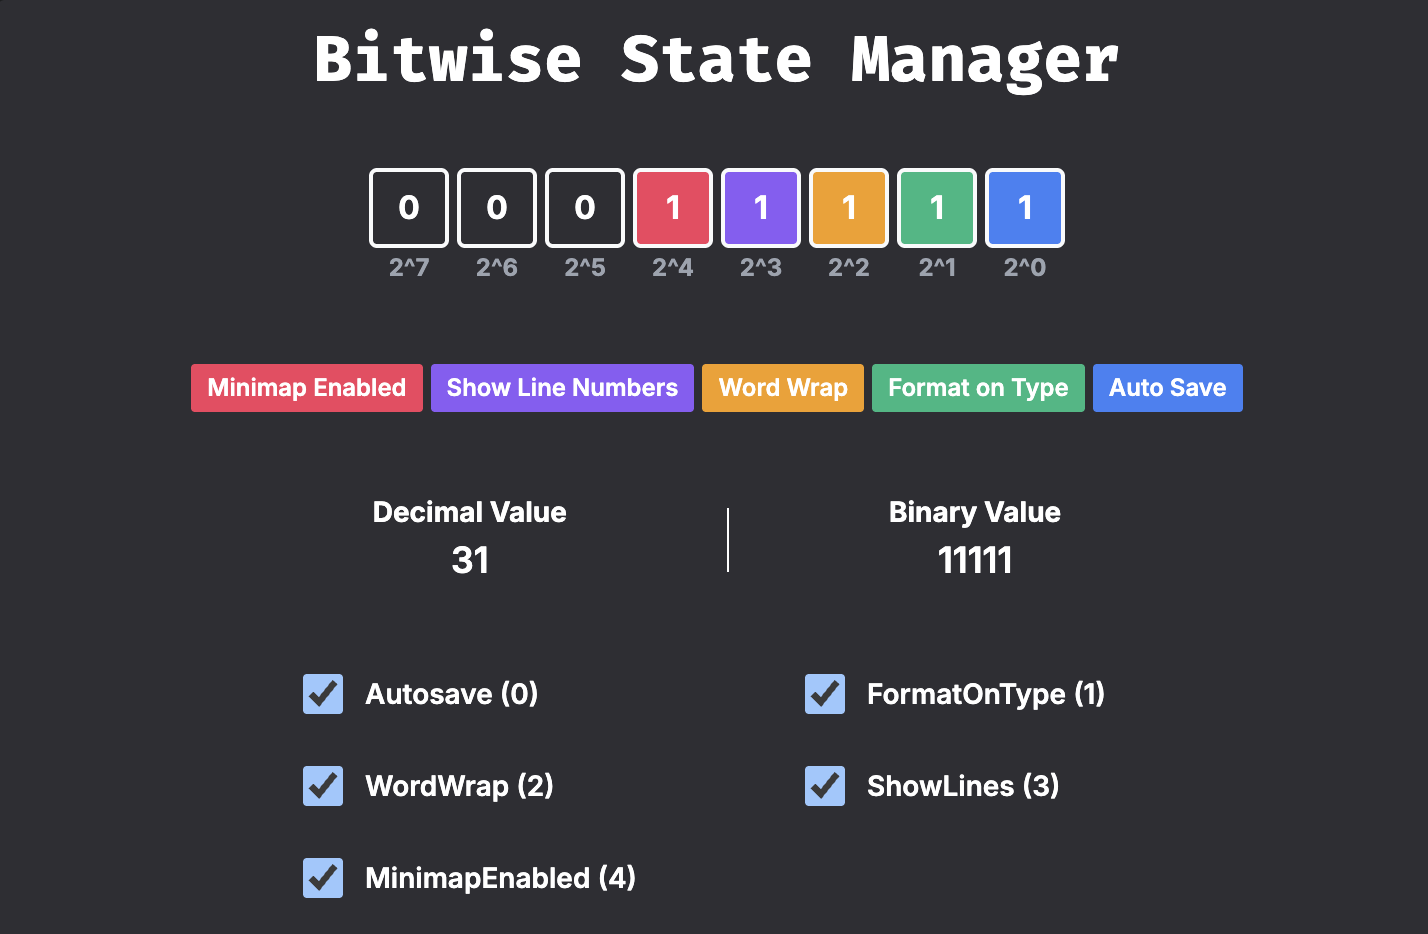
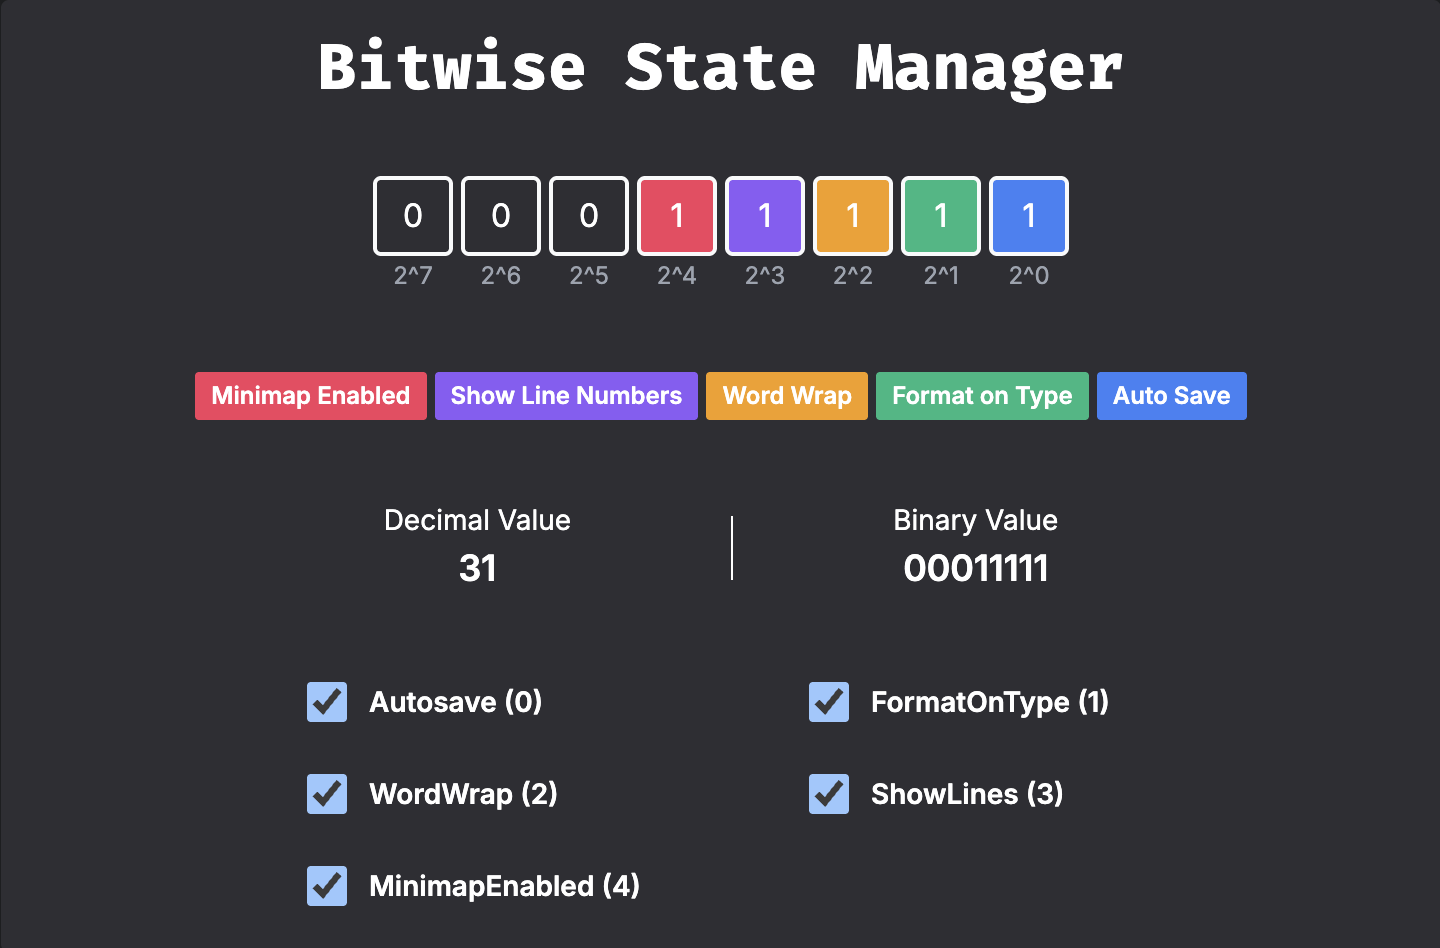
feat: update article on bitwise state manager

diff --git a/layouts/shortcodes/bitwise-state-manager.html b/layouts/shortcodes/bitwise-state-manager.html
@@ -1,12 +1,12 @@
 <div
-  class="bitwise-state-manager tw-flex tw-flex-col tw-gap-10 tw-items-center tw-p-4 tw-text-white tw-bg-[#1c1d21] dark:tw-bg-[#2e2e33] tw-rounded"
+  class="bitwise-state-manager tw-flex tw-flex-col tw-gap-10 tw-items-center tw-py-4 tw-px-2 md:tw-px-4 md:tw-py-5 tw-text-white tw-bg-[#1c1d21] dark:tw-bg-[#2e2e33] tw-rounded"
 >
   <h2 class="tw-text-xl tw-text-center tw-font-bold !tw-m-0 tw-text-inherit">
     Bitwise State Manager
   </h2>
   <!-- Input Flags -->
   <div
-    class="tw-flex tw-flex-row tw-flex-nowrap tw-gap-1 tw-justify-center"
+    class="tw-flex tw-flex-row tw-flex-nowrap tw-gap-0.5 md:tw-gap-1 tw-justify-center"
     id="bitwise-flags"
   ></div>
 
@@ -18,7 +18,7 @@
 
   <!-- Readable Value -->
   <div
-    class="tw-flex tw-items-stretch tw-flex-row tw-gap-20 tw-justify-between tw-flex-nowrap"
+    class="tw-flex tw-items-stretch tw-flex-row tw-gap-10 md:tw-gap-20 tw-justify-between tw-flex-nowrap"
   >
     <div class="tw-flex tw-flex-col tw-items-center tw-flex-1">
       <small class="tw-text-sm tw-text-nowrap">Decimal Value</small>
@@ -29,13 +29,16 @@
     ></div>
     <div class="tw-flex tw-flex-col tw-items-center tw-flex-1">
       <small class="tw-text-sm tw-text-nowrap">Binary Value</small>
-      <span class="binary-value tw-text-lg tw-font-semibold">00000000</span>
+      <span
+        class="binary-value tw-text-lg tw-font-semibold tw-inline-block tw-w-fit tw-text-nowrap"
+        >00000000</span
+      >
     </div>
   </div>
 
   <!-- Swtches -->
   <div
-    class="tw-grid tw-grid-cols-2 tw-gap-x-20 tw-gap-y-5"
+    class="tw-grid tw-grid-cols-1 md:tw-grid-cols-2 md:tw-gap-x-20 tw-gap-y-5 tw-w-full md:tw-w-fit"
     id="switches"
   ></div>
 </div>
@@ -62,7 +65,7 @@
           "tw-flex tw-flex-col tw-gap-0.5 tw-items-center tw-w-10";
         const digitDiv = document.createElement("div");
         digitDiv.className =
-          "digit tw-border-2 tw-border-solid tw-border-gray-700 dark:tw-border-gray-50 tw-rounded tw-w-10 tw-h-10 tw-flex tw-justify-center tw-items-center tw-text-base";
+          "digit tw-border md:tw-border-2 tw-border-solid tw-border-gray-700 dark:tw-border-gray-50 tw-rounded tw-w-9 md:tw-w-10 tw-h-9 md:tw-h-10 tw-flex tw-justify-center tw-items-center tw-text-base";
         digitDiv.textContent = "0";
         const smallLabel = document.createElement("small");
         smallLabel.className =
@@ -86,14 +89,15 @@
           "tw-flex tw-flex-row tw-justify-start tw-items-center tw-gap-2";
 
         const label = document.createElement("label");
-        label.className = "tw-text-sm tw-font-semibold tw-select-none";
+        label.className =
+          "tw-text-sm tw-font-semibold tw-select-none tw-text-nowrap";
         label.setAttribute("for", `bitwise-state-manager-switch-${i + 1}`);
         label.textContent = `${actions[i]} (${i})`;
 
         const checkbox = document.createElement("input");
         checkbox.type = "checkbox";
         checkbox.id = `bitwise-state-manager-switch-${i + 1}`;
-        checkbox.className = "tw-w-5 tw-h-5";
+        checkbox.className = "tw-w-5 tw-h-5 tw-grow-0 tw-shrink-0";
         checkbox.addEventListener("change", updateValues);
 
         switchDiv.appendChild(checkbox);
@@ -142,6 +146,8 @@
           digitElement.classList.remove(settingColors[index], "tw-text-white");
         }
       });
+
+      binaryValue = binaryValue.padStart(8, "0");
 
       decimalValueElement.textContent = decimalValue;
       binaryValueElement.textContent = binaryValue;

diff --git a/layouts/shortcodes/bitwise-flag-calculator.html b/layouts/shortcodes/bitwise-flag-calculator.html
@@ -1,18 +1,18 @@
 <div
-  class="bitwise-calculator tw-flex tw-flex-col tw-gap-10 tw-items-center tw-p-4 tw-text-white tw-bg-[#1c1d21] dark:tw-bg-[#2e2e33] tw-rounded"
+  class="bitwise-calculator tw-flex tw-flex-col tw-gap-10 tw-items-center tw-py-4 tw-px-2 md:tw-px-4 md:tw-py-5 tw-text-white tw-bg-[#1c1d21] dark:tw-bg-[#2e2e33] tw-rounded"
 >
   <h2 class="tw-text-xl tw-text-center tw-font-bold !tw-m-0 tw-text-inherit">
     Bitwise Flag Calculator
   </h2>
   <!-- Input Flags -->
   <div
-    class="tw-flex tw-flex-row tw-flex-nowrap tw-gap-1 tw-justify-center"
+    class="tw-flex tw-flex-row tw-flex-nowrap tw-gap-0.5 md:tw-gap-1 tw-justify-center"
     id="bitwise-flags"
   ></div>
 
   <!-- Readable Value -->
   <div
-    class="tw-flex tw-items-stretch tw-flex-row tw-gap-20 tw-justify-between tw-flex-nowrap"
+    class="tw-flex tw-items-stretch tw-flex-row tw-gap-10 md:tw-gap-20 tw-justify-between tw-flex-nowrap"
   >
     <div class="tw-flex tw-flex-col tw-items-center tw-flex-1">
       <small class="tw-text-sm tw-text-nowrap">Decimal Value</small>
@@ -23,7 +23,10 @@
     ></div>
     <div class="tw-flex tw-flex-col tw-items-center tw-flex-1">
       <small class="tw-text-sm tw-text-nowrap">Binary Value</small>
-      <span class="binary-value tw-text-lg tw-font-semibold">00000000</span>
+      <span
+        class="binary-value tw-text-lg tw-font-semibold tw-inline-block tw-w-fit tw-text-nowrap"
+        >00000000</span
+      >
     </div>
   </div>
 
@@ -48,7 +51,7 @@
           "tw-flex tw-flex-col tw-gap-0.5 tw-items-center tw-w-10";
         const digitDiv = document.createElement("div");
         digitDiv.className =
-          "digit tw-border-2 tw-border-solid tw-border-gray-700 dark:tw-border-gray-50 tw-rounded tw-w-10 tw-h-10 tw-flex tw-justify-center tw-items-center tw-text-base";
+          "digit tw-border md:tw-border-2 tw-border-solid tw-border-gray-700 dark:tw-border-gray-50 tw-rounded tw-w-9 md:tw-w-10 tw-h-9 md:tw-h-10 tw-flex tw-justify-center tw-items-center tw-text-base";
         digitDiv.textContent = "0";
         const smallLabel = document.createElement("small");
         smallLabel.className =

diff --git a/content/blog/managing-state-at-the-lowest-level-in-nodejs-application.md b/content/blog/managing-state-at-the-lowest-level-in-nodejs-application.md
@@ -6,6 +6,7 @@ publishDate = '2026-10-02'
 draft = false
 categories = ["article"]
 tags = ["frontend", "backend", "performance", "typescript", "javascript", "Node.js"]
+images = ['images/blog/bitwise-state-manager.png']
 
 [cover]
   image = 'images/blog/bitwise-state-manager.png'
@@ -44,7 +45,7 @@ It is easy to claim bitwise are faster, but understanding _why_ requires looking
 
 If you benchmark an array of 10,000,000 boolean objects against an array of 10,000,000 bitmask integers in Node.js, the boolean array will typically consume largest memory compared to bitmask integers.
 
-Every time you add a boolean property to an object (`{ a: true, b: false }`), V8 creates a "Hidden Class" to map those properties. A bitmask integer, however, is stored as a **Smi (Small Integer)**. V8 highly optimizes small integers (`smis`), storing them directly in the pointer space without allocating _any_ extra bytes on the heap.
+Every time you add a boolean property to an object (`{ a: true, b: false }`), V8 creates a "Hidden Class" to map those properties. A bitmask integer, however, is stored as a **smis (small integers)**. V8 highly optimizes small integers (`smis`), storing them directly in the pointer space without allocating _any_ extra bytes on the heap.
 
 ### 2. CPU Speed (The Micro View)
 
@@ -55,7 +56,7 @@ If you generate a massive array of 10,000,000 simulated items and run a strict b
 This massive speedup happens for two hardware-level reasons:
 
 - **Memory Locality:** A packed array of small integers (`smis`) can be loaded efficiently into the CPU's L1/L2 cache in contiguous chunks, meaning the processor doesn't have to wait to fetch data. Object arrays require the CPU to constantly jump around heap memory to find the actual boolean values.
-- **Fewer Instructions:** Checking `item.autoSave` && `item.wordWrap` forces the engine to look up two separate property addresses in memory, evaluate the first, branch, evaluate the second, and branch again. The bitwise check (flags & 5) === 5 is evaluated in a single clock cycle directly on a CPU register.
+- **Fewer Instructions:** Checking `item.autoSave` && `item.wordWrap` forces the engine to look up two separate property addresses in memory, evaluate the first, branch, evaluate the second, and branch again. The bitwise check `(flags & 5) === 5` is evaluated in a single clock cycle directly on a CPU register.
 
 ---
 
@@ -74,7 +75,7 @@ Here are the standard bitwise operators used in most programming languages:
 
 Bellow is a interactive bitwise calculator to help you understand exatcly how the bits are flipping.
 
-# {{<bitwise-flag-calculator>}}
+{{<bitwise-flag-calculator>}}
 
 ## Implementation
 
@@ -155,7 +156,7 @@ console.log(getActiveSettings(currentConfig));
 
 You can use the playground bellow for state management using bitwise.
 
-# {{<bitwise-state-manager>}}
+{{<bitwise-state-manager>}}
 
 ---
 
@@ -431,7 +432,7 @@ Benchmark: Boolean
 │ 10      │ 'Heap Used Delta (MB)'     │ 802.5500183105469    │
 │ 11      │ 'External Start (MB)'      │ 11.176488876342773   │
 │ 12      │ 'External End (MB)'        │ 1.6397838592529297   │
-│ 13      │ 'External Delta (MB)'      │ 0                    │
+│ 13      │ 'External Delta (MB)'      │ -9.536705017089844   │
 │ 14      │ 'Array Buffers Start (MB)' │ 0.010157585144042969 │
 │ 15      │ 'Array Buffers End (MB)'   │ 0.010157585144042969 │
 │ 16      │ 'Array Buffers Delta (MB)' │ 0                    │
@@ -470,31 +471,43 @@ The bitwise approach is approximately 2.4 times faster than the boolean approach
 
 - **Bitwise (527.97 ms):** The engine bypasses object property lookups entirely. It loads integers directly into the CPU registers and executes a single hardware-level bitwise & instruction per item.
 
-#### Process Footprint (RSS)
+#### Process Footprint (`rss`)
 
-The Resident Set Size (RSS) delta shows the impact on the operating system's actual RAM allocation.
+The Resident Set Size (`rss`) delta shows the impact on the operating system's actual RAM allocation.
 
-- **Boolean RSS Delta (146.65 MB):** As the heap ballooned by 800 MB, the Node.js process had to claim an additional 146 MB of physical RAM from the OS to maintain its operations.
+- **Boolean `rss` Delta (146.65 MB):** As the heap ballooned by 800 MB, the Node.js process had to claim an additional 146 MB of physical RAM from the OS to maintain its operations.
 
-- **Bitwise RSS Delta (0 MB):** The bitwise execution was so efficient that the overall physical footprint of the Node.js process did not grow at all during the 10 million iterations.
+- **Bitwise `rss` Delta (0 MB):** The bitwise execution was so efficient that the overall physical footprint of the Node.js process did not grow at all during the 10 million iterations.
 
 #### Heap Memory Allocation
 
 This is where the structural difference is most visible, demonstrating the massive overhead of standard JavaScript objects.
 
-- **Boolean Heap Used Delta (802.55 MB):** Pushing 10 million simple objects (e.g., { autoSave: true }) onto a standard array forces V8 to allocate over 800 megabytes of memory. This includes the memory for the boolean primitives themselves, plus the hidden class metadata, prototype pointers, and hash map structures required to maintain the array and objects.
+- **Boolean Heap Used Delta (802.55 MB):** Pushing 10 million simple objects (e.g., `{ autoSave: true }`) onto a standard array forces V8 to allocate over 800 MB of memory. This includes the memory for the boolean primitives themselves, plus the hidden class metadata, prototype pointers, and hash map structures required to maintain the array and objects.
 
-- **Bitwise Heap Used Delta (7.88 MB):** The bitwise approach barely touches the V8 JavaScript heap. V8 highly optimizes Small Integers (Smis), meaning the numeric flags themselves require zero additional heap allocation.
+- **Bitwise Heap Used Delta (7.88 MB):** The bitwise approach barely touches the V8 JavaScript heap. V8 highly optimizes small integers (`smis`), meaning the numeric flags themselves require zero additional heap allocation.
 
 #### External Memory and Array Buffers
 
-Rows 11 through 16 reveal exactly how the bitwise benchmark stores its data to achieve such a small heap footprint.
+The External Delta measures the change in memory allocated outside of V8's standard JavaScript heap during the benchmark's execution. In Node.js, this external memory is managed directly by underlying C++ bindings and is primarily used for storing raw binary data structures such as `ArrayBuffer`, `Buffer`, and `TypedArray`.
 
-- **The 10 Million Byte Array:** In the Bitwise table, the Array Buffers Delta and External Delta are both exactly 9.53674 MB. Because 1 megabyte is 1,048,576 bytes, 9.53674 MB translates to exactly 10,000,000 bytes. This confirms the bitwise test stored its 10 million flags inside a tightly packed Uint8Array or Buffer.
+##### The Bitwise Benchmark (+9.53 MB)
 
-- **Bypassing the Heap:** Because a TypedArray allocates a single, contiguous block of raw memory via C++, Node.js categorizes it as External/Array Buffer memory rather than Heap memory.
+In the Bitwise results, both the External Delta and the Array Buffers Delta increased by precisely 9.5367431640625 MB.
 
-- **The Boolean Artifact:** In the Boolean table, External Start is 11.17 MB, but External End drops to 1.63 MB. The script logged the delta as 0 (likely preventing negative numbers in the display), but a 9.5 MB chunk of external memory was destroyed during the boolean test. This indicates the 10 MB TypedArray from a warm-up phase was finally garbage-collected mid-execution while the boolean test was running.
+- **The 10 Million Byte Allocation:** Because 1 Megabyte equals 1,048,576 bytes, 9.53674 MB equates to exactly 10,000,000 bytes. This confirms that the Bitwise implementation stored its 10 million boolean states inside a single, tightly packed `Uint8Array` or native `Buffer`.
+
+- **Bypassing the Heap:** Because the data was stored as contiguous raw bytes in C++, it completely bypassed the V8 JavaScript heap. This is why the Heap Used Delta for the Bitwise test remained at a negligible 7.88 MB.
+
+##### The Boolean Benchmark (-9.53 MB)
+
+The Boolean results show a negative External Delta of -9.536705017089844 MB. This negative value does not mean boolean logic generates free memory; it is a side effect of extreme memory pressure triggering the V8 Garbage Collector.
+
+- **The 800 MB Panic:** The Boolean implementation relied on standard JavaScript objects (e.g., `{ autoSave: true }`). Pushing 10 million of these objects onto an array forced the V8 engine to allocate over 800 MB on the JavaScript heap (as seen in the Heap Used Delta).
+
+- **Emergency Sweeping:** This massive, rapid allocation caused severe memory pressure. To prevent the process from crashing, V8 was forced to run an aggressive garbage collection sweep while the benchmark was executing.
+
+- **The Math:** During this sweep, V8 found and destroyed the exact 10 MB ArrayBuffer left over from a previous run or warm-up phase. Because the benchmark script recorded 11.17 MB of external memory before the test and only 1.63 MB after the test, the mathematical difference resulted in the -9.53 MB delta.
 
 #### Data Integrity (Match Count)
 
